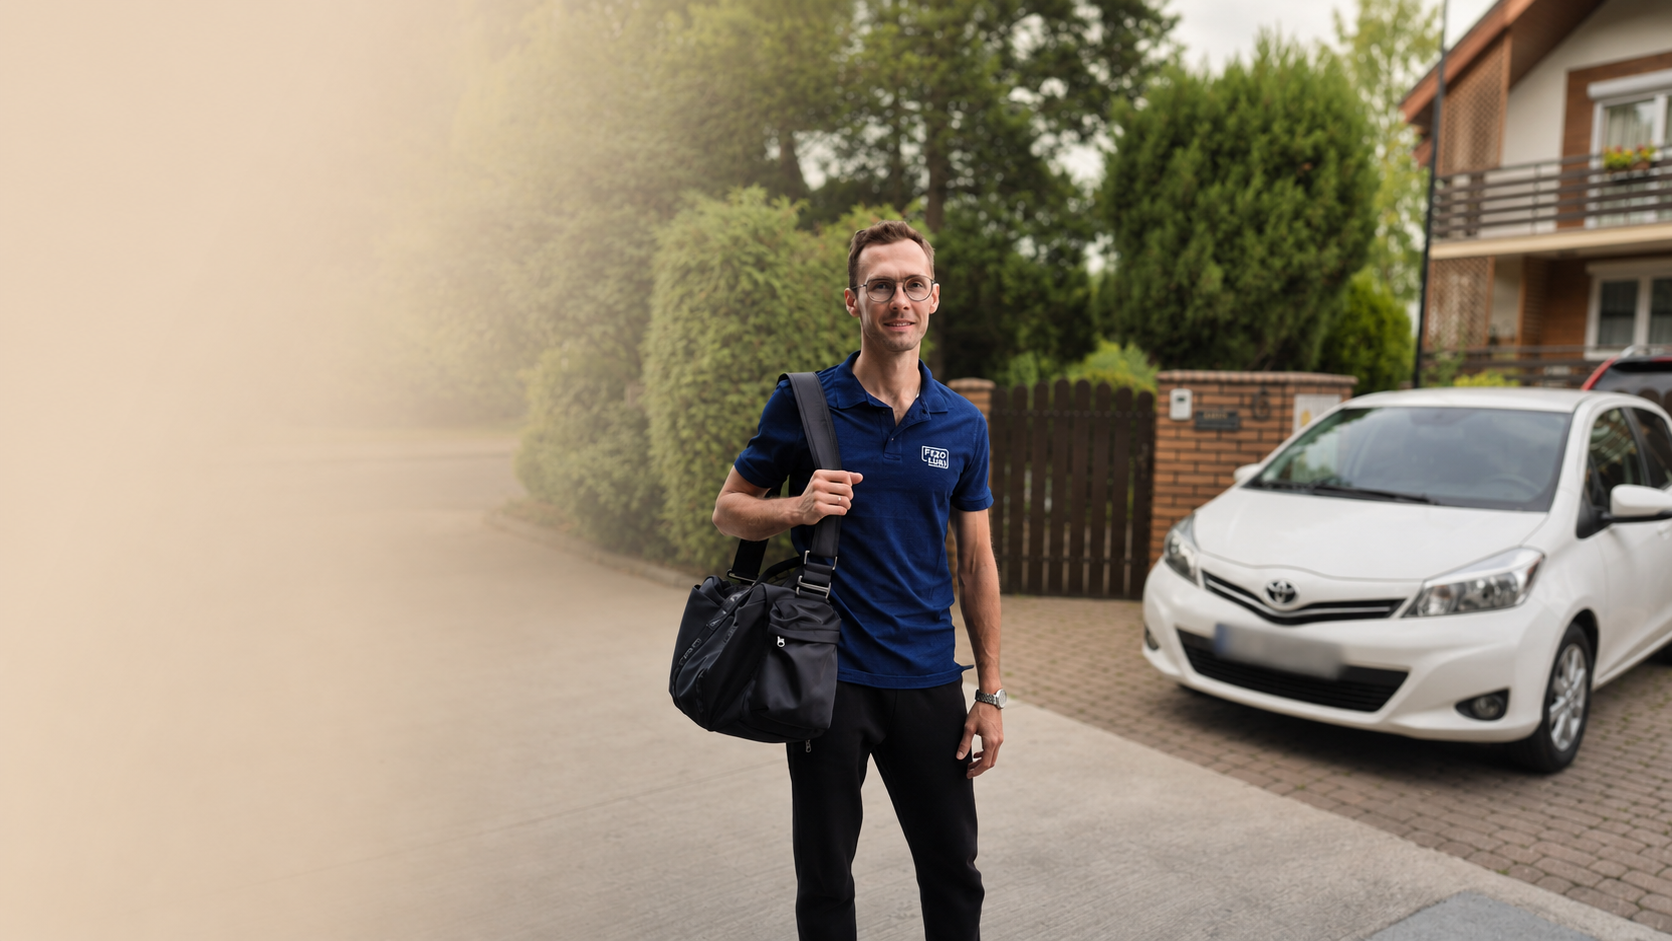
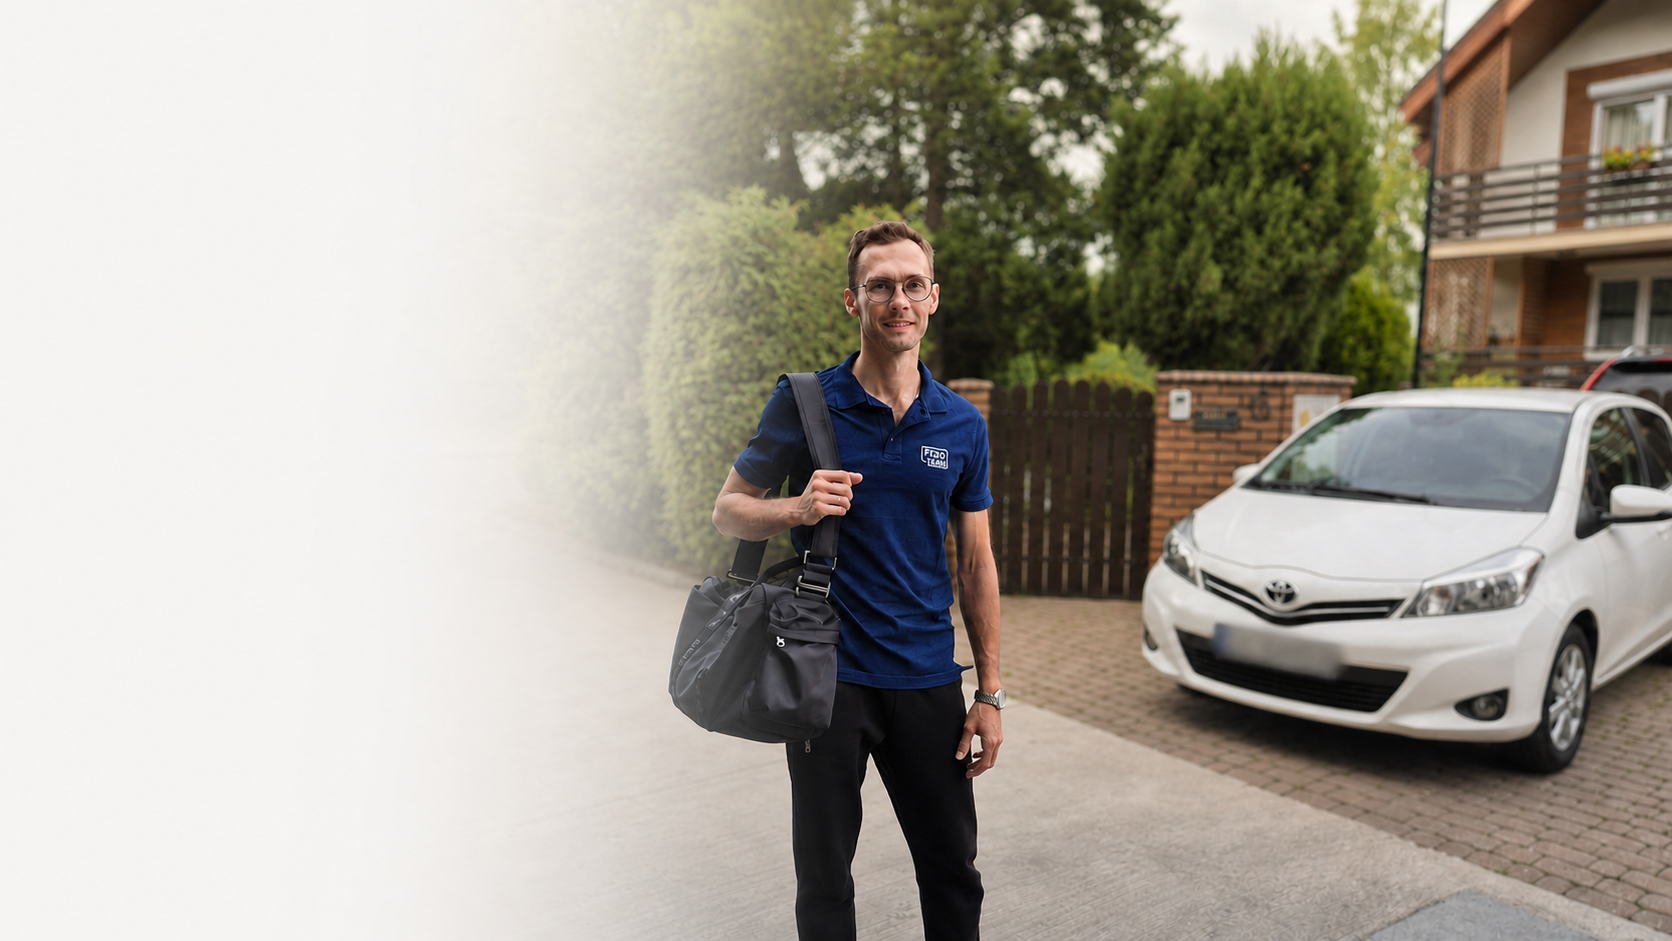
remove gradient

diff --git a/assets/css/main.css b/assets/css/main.css
@@ -189,22 +189,6 @@ main > section[id] {
   width: 100%;
 }
 
-.hero::after {
-  background: linear-gradient(
-    90deg,
-    rgba(246, 245, 244, 0.98) 0%,
-    rgba(246, 245, 244, 0.9) 24%,
-    rgba(246, 245, 244, 0.55) 38%,
-    rgba(246, 245, 244, 0.08) 50%,
-    rgba(246, 245, 244, 0) 58%
-  );
-  content: "";
-  inset: 0;
-  pointer-events: none;
-  position: absolute;
-  z-index: 1;
-}
-
 .hero-media {
   inset: 0;
   position: absolute;
@@ -687,10 +671,6 @@ h3 {
       "media";
     min-height: auto;
     overflow: visible;
-  }
-
-  .hero::after {
-    content: none;
   }
 
   .hero-inner {
